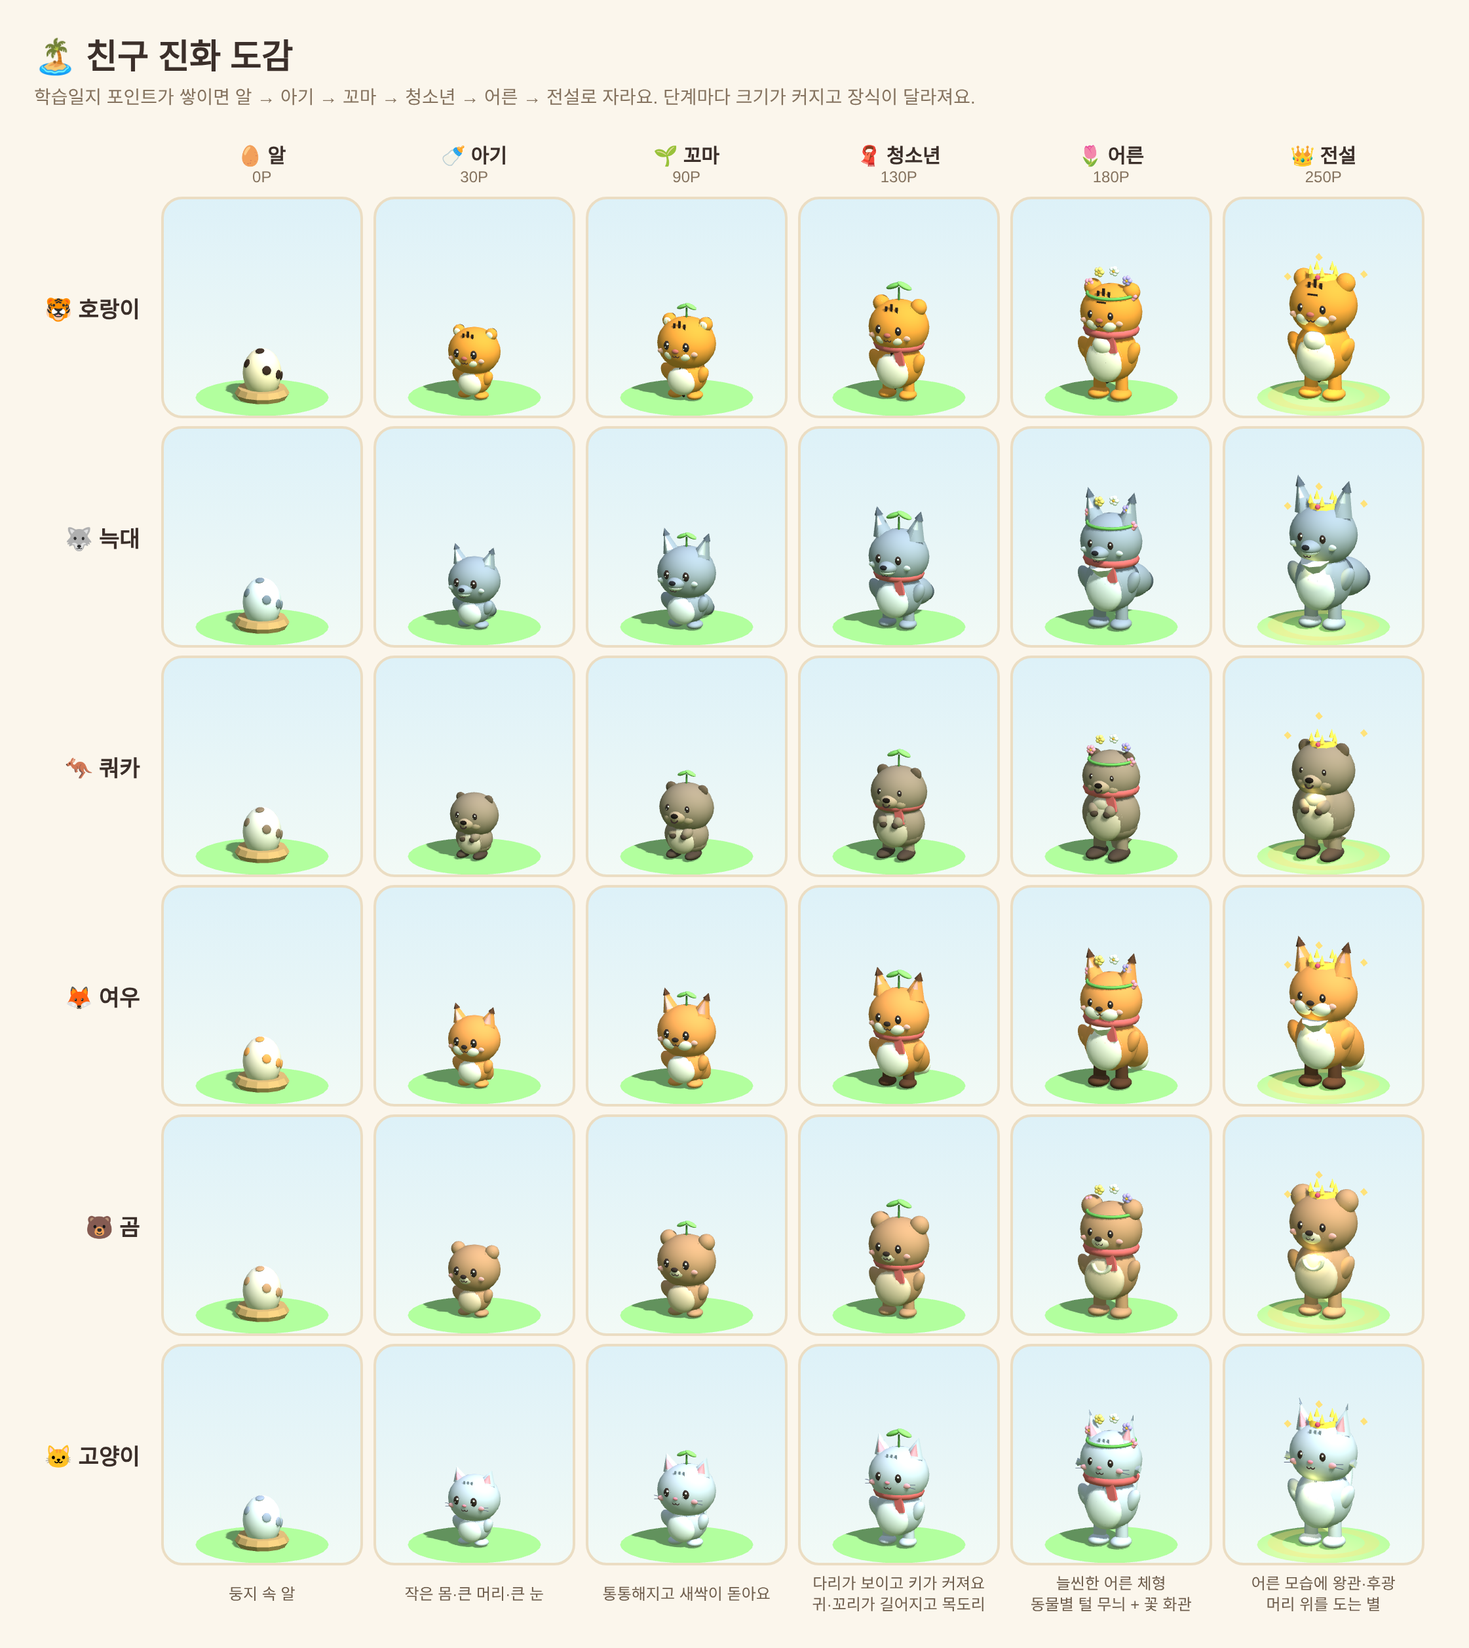
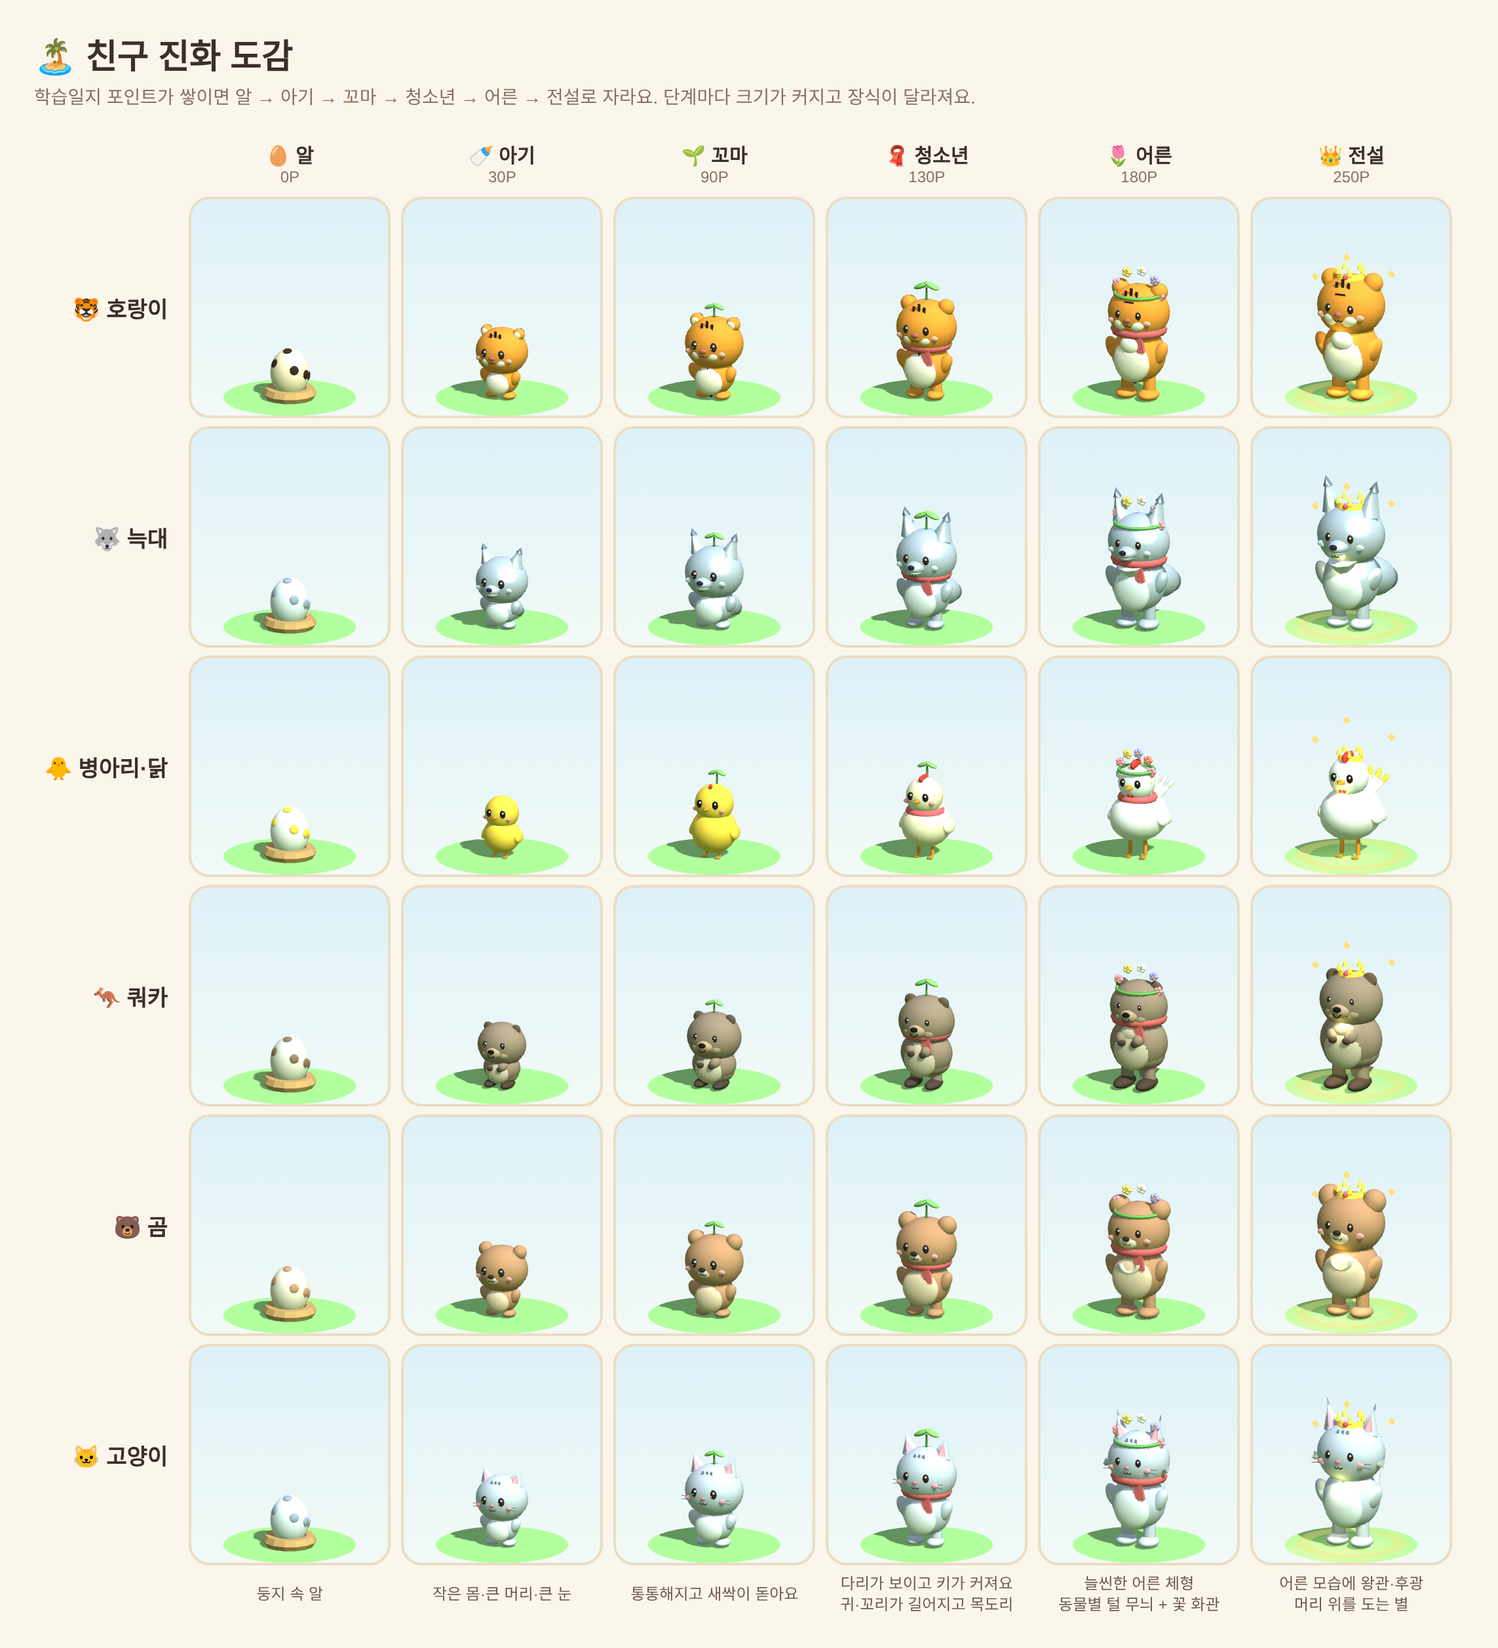
여우 대신 병아리→닭 추가, 늑대를 은빛으로
- 병아리→닭: 노란 병아리 → 볏이 나는 꼬마 → 크림색 중닭(꽁지깃·다리) → 하얀 닭(큰 볏·턱볏·부채꼴 꽁지) → 금빛 꽁지 전설
- 단계에 따라 이름·이모지가 병아리 🐥 / 중닭 / 닭 🐔 로 바뀜
- 늑대: 밝은 은회색 + 빛을 받으면 반짝이는 광택
- api.gs 종류 목록, 체험용 친구(최민재)도 병아리로

Claude-Session: https://claude.ai/code/session_01XAbtJ4oXmSkLcZTaopT91E

diff --git a/index.html b/index.html
@@ -3237,7 +3237,7 @@
       const mates = [
         { num: 2, name: '이준호', pet: { species: 'bear', name: '든든이' }, pts: [25, 25, 30, 30, 30], likes: 3,
           layout: { v: 1, objects: { desk: { x: -3.2, z: 4.6, rot: .5 }, calendar: { x: 1.2, z: 6.0, rot: 0 } }, props: [{ type: 'bench', x: 1.5, z: 3.5, rot: 0 }, { type: 'flowerbed', x: -5.0, z: 5.5, rot: .6 }, { type: 'mushroom', x: 5.0, z: 5.6, rot: 0 }, { type: 'lamp', x: -1.0, z: 2.4, rot: 0 }] } },
-        { num: 3, name: '최민재', pet: { species: 'fox', name: '번개' }, pts: [20, 20], likes: 1, layout: null },
+        { num: 3, name: '최민재', pet: { species: 'chick', name: '번개' }, pts: [20, 20], likes: 1, layout: null },
         { num: 4, name: '정우진', pet: { species: 'cat', name: '치즈' }, pts: [40, 40, 40, 40, 40], likes: 7,
           layout: { v: 1, objects: { arcade: { x: 5.5, z: 4.0, rot: -2.2 }, chest: { x: 6.8, z: -0.6, rot: -1.42 } }, props: [{ type: 'swing', x: 1.8, z: 3.2, rot: 0 }, { type: 'fountain', x: -0.2, z: 1.2, rot: 0 }, { type: 'lamp', x: -4.0, z: 4.8, rot: 0 }, { type: 'lamp', x: 3.4, z: 5.8, rot: 0 }, { type: 'flowerbed', x: -5.4, z: 0.9, rot: 1.57 }, { type: 'sign', x: 1.2, z: 6.6, rot: 0 }] } }
       ];
@@ -3943,7 +3943,8 @@
       // ---------- 캐릭터 ----------
       const SPC = {
         tiger:  { body: 0xf29a3a, belly: 0xfff3e0, accent: 0xf6b3a0, nose: 0xc96a5e, egg: 0xffe7c4, spot: 0x3a2a22, stripe: 0x33251e, muzzle: 0xfff3e0 },
-        wolf:   { body: 0x9aa5b1, belly: 0xeef1f4, accent: 0xd3d9e0, nose: 0x2a2a30, egg: 0xe7ecf2, spot: 0x7a8794, tip: 0x5a6470, muzzle: 0xeef1f4, iris: 0xf2b632 },
+        wolf:   { body: 0xb4bfcb, belly: 0xeef2f6, accent: 0xdde3ea, nose: 0x2a2d36, egg: 0xe9eef4, spot: 0x98a5b4, tip: 0x6f7c8d, muzzle: 0xeef2f6 },
+        chick:  { chick: 0xffd54a, chickBelly: 0xffeb9c, teen: 0xfff1c9, teenBelly: 0xfffaea, body: 0xfbfaf4, belly: 0xffffff, feather: 0xe8e2d2, beak: 0xf59a2c, comb: 0xe2463c, blush: 0xffa8a0, egg: 0xfffdf6, spot: 0xffd54a },
         quokka: { body: 0x9a8670, belly: 0xd8c6ad, accent: 0xd9a090, nose: 0x231c18, egg: 0xefe6d8, spot: 0x8a735c, muzzle: 0xb79d80, paw: 0x4f4035, rim: 0x6a5846 },
         cat:    { body: 0xc9d0dd, belly: 0xf4f6fa, accent: 0xf2a7b5, nose: 0xf08aa0, egg: 0xeef1f7, spot: 0x9aa4b9, stripe: 0x8f99ae },
         bear:   { body: 0xc1916a, belly: 0xe8cdae, accent: 0xf0a8a0, nose: 0x3a2e2a, egg: 0xf6e7d6, spot: 0xc1916a, muzzle: 0xf1dec6 },
@@ -3961,6 +3962,7 @@
         const g = new T.Group();
         const body = new T.Group(); g.add(body);
         const parts = { g: g, body: body };
+        if (species === 'chick' && stage > 0) return buildBird(stage);
         if (stage === 0) {
           const nest = mesh(new T.TorusGeometry(.5, .16, 6, 14), flat(0xc9a066), 0, .12, 0); nest.rotation.x = Math.PI / 2; g.add(nest);
           const egg = ball(.55, S.egg, 0, .62, 0, .85, 1.1, .85); body.add(egg);
@@ -4181,6 +4183,139 @@
           halo.rotation.x = -Math.PI / 2; halo.position.y = .03; g.add(halo); parts.halo = halo;
           // 반짝이는 별 3개가 머리 위를 맴돌아요
           const orbit = new T.Group(); orbit.position.y = cy + ry + .9;
+          for (let i = 0; i < 3; i++) { const a = i / 3 * Math.PI * 2; orbit.add(mesh(new T.OctahedronGeometry(.07, 0), new T.MeshBasicMaterial({ color: 0xffe27a }), Math.cos(a) * .75, 0, Math.sin(a) * .75, false)); }
+          g.add(orbit); parts.orbit = orbit;
+        }
+        if (species === 'wolf') silverize(g, [S.body, S.tip, S.belly, S.muzzle]);
+        g.scale.setScalar(STAGE_SCALE[stage]);
+        return parts;
+      }
+
+
+      // 늑대 털: 빛을 받으면 반짝이는 은빛
+      const silverCache = {};
+      function silverize(g, colors) {
+        g.traverse(function (m) {
+          if (!m.isMesh || !m.material || !m.material.color || m.material.isMeshBasicMaterial) return;
+          const hex = m.material.color.getHex();
+          if (colors.indexOf(hex) < 0) return;
+          m.material = silverCache[hex] || (silverCache[hex] = new T.MeshPhongMaterial({ color: hex, specular: 0x9aa6b8, shininess: 55 }));
+        });
+      }
+
+      // ---------- 🐥 병아리 → 🐔 닭 (새는 몸 구조가 달라서 따로 만들어요) ----------
+      function buildBird(stage) {
+        const S = SPC.chick;
+        const g = new T.Group();
+        const body = new T.Group(); g.add(body);
+        const parts = { g: g, body: body };
+        const legH = [0, 0, 0, .12, .22, .22][stage];
+        const br = [0, .46, .5, .5, .52, .52][stage];
+        const hr = [0, .42, .42, .37, .34, .34][stage];
+        const eyeS = [0, 1.15, 1.08, 1.0, .9, .9][stage];
+        const col = [0, S.chick, S.chick, S.teen, S.body, S.body][stage];
+        const bel = [0, S.chickBelly, S.chickBelly, S.teenBelly, S.belly, S.belly][stage];
+        const adult = stage >= 4;
+        const sy = stage >= 4 ? .88 : (stage === 3 ? .92 : 1), sz = stage >= 4 ? 1.22 : (stage === 3 ? 1.1 : 1);
+        const cy = .1 + legH + br * sy;
+        body.add(ball(br, col, 0, cy, 0, 1, sy, sz));
+        body.add(ball(br * .7, bel, 0, cy - br * .15, br * .45, 1, sy * .9, .6));
+        // 머리 (병아리는 몸에 붙어 있고, 자라면 목이 생겨요)
+        const head = new T.Group();
+        head.position.set(0, cy + br * sy * .72 + hr * .55 + (adult ? .14 : (stage === 3 ? .06 : 0)), stage >= 3 ? .1 : 0);
+        body.add(head); parts.head = head;
+        if (stage >= 3) body.add(ball(hr * .8, col, 0, (cy + head.position.y) / 2 + .04, .06, 1, 1.3, 1));
+        head.add(ball(hr, col, 0, 0, 0));
+        // 눈
+        const eyeM = sm(0x2a2220), hiM = sm(0xffffff), eyes = [];
+        [-1, 1].forEach(function (sd) {
+          const e = new T.Group(); e.position.set(sd * hr * .42, hr * .14, hr * .86);
+          const eb = new T.Group(); eb.scale.setScalar(eyeS); e.add(eb);
+          eb.add(mesh(new T.SphereGeometry(.07, 12, 10), eyeM, 0, 0, 0)); eb.children[0].scale.set(1, 1.2, .6);
+          eb.add(mesh(new T.SphereGeometry(.024, 6, 5), hiM, .022, .035, .04));
+          head.add(e); eyes.push(e);
+        });
+        parts.eyes = eyes;
+        const brows = new T.Group();
+        [-1, 1].forEach(function (sd) { const b = mesh(new T.BoxGeometry(.12, .022, .02), eyeM, sd * hr * .42, hr * .42, hr * .86); b.rotation.z = -sd * .35; brows.add(b); });
+        brows.visible = false; head.add(brows); parts.brows = brows;
+        if (stage <= 3) [-1, 1].forEach(function (sd) { head.add(ball(.08, S.blush, sd * hr * .7, -hr * .18, hr * .7, 1, .6, .4)); });
+        // 부리
+        const bk = adult ? 1.15 : 1;
+        const beakT = mesh(new T.ConeGeometry(.075 * bk, .16 * bk, 6), sm(S.beak), 0, -hr * .05, hr + .05); beakT.rotation.x = Math.PI / 2; beakT.scale.set(1.2, 1, .7); head.add(beakT);
+        // 볏·턱볏 (자랄수록 커져요)
+        const combN = [0, 0, 1, 3, 4, 4][stage], combR = [0, 0, .06, .07, .085, .09][stage];
+        for (let i = 0; i < combN; i++) {
+          const t = combN === 1 ? 0 : i / (combN - 1);
+          head.add(ball(combR * (1 - Math.abs(t - .35) * .4), S.comb, 0, hr * .92 + combR * .5, hr * (.45 - t * .7), .7, 1.1, 1));
+        }
+        if (adult) [-1, 1].forEach(function (sd) { head.add(ball(.05, S.comb, sd * .035, -hr * .45, hr * .78, .8, 1.4, .6)); });
+        // 날개 (팔 역할)
+        const mkWing = function (sd) {
+          const w = ball(.2, col, sd * br * .95, cy, -.02, .35, .8 * sy, 1.1 * sz);
+          w.rotation.z = sd * .25;
+          if (adult) w.add(ball(.11, S.feather, 0, -.12, -.12, 1.1, .7, 1));
+          body.add(w); return w;
+        };
+        parts.armL = mkWing(-1); parts.armR = mkWing(1);
+        // 꽁지깃
+        const tail = new T.Group(); tail.position.set(0, cy + br * .2, -br * sz * .85);
+        if (stage <= 2) { const tf = mesh(new T.ConeGeometry(.08, .2, 6), sm(col), 0, .05, -.04); tf.rotation.x = -.9; tail.add(tf); }
+        else {
+          const n = stage === 3 ? 3 : 5, len = stage === 3 ? .32 : .5;
+          for (let i = 0; i < n; i++) {
+            const a = (i - (n - 1) / 2) * .32;
+            const f = new T.Group(); f.rotation.set(-.55, 0, a);
+            f.add(ball(.09, col, 0, len * .5, 0, .7, len * 5.2, .4));
+            if (stage >= 4) f.add(ball(.07, stage === 5 ? 0xffc93c : S.feather, 0, len * .95, 0, .7, 1.6, .4));
+            tail.add(f);
+          }
+        }
+        body.add(tail); parts.tail = tail;
+        // 다리·발 (주황색)
+        const mkFoot = function (x) {
+          const f = new T.Group(); f.position.set(x, 0, .05);
+          const legLen = legH + .14;
+          f.add(mesh(new T.CylinderGeometry(.035, .04, legLen, 6), sm(S.beak), 0, .06 + legLen / 2, 0));
+          [-.35, 0, .35].forEach(function (a) { const toe = mesh(new T.BoxGeometry(.035, .03, .14), sm(S.beak), Math.sin(a) * .06, .03, .06 + Math.cos(a) * .02); toe.rotation.y = a; f.add(toe); });
+          g.add(f); return f;
+        };
+        parts.footL = mkFoot(-.15); parts.footR = mkFoot(.15);
+        // 단계별 장식 (다른 친구들과 같아요)
+        if (stage === 2 || stage === 3) {
+          const sprout = new T.Group(); sprout.position.set(0, hr * .95, -hr * .35);
+          sprout.add(mesh(new T.CylinderGeometry(.02, .025, .22, 5), sm(0x4e8f3a), 0, .11, 0));
+          const l1 = ball(.09, 0x7cc35f, -.09, .24, 0, 1.4, .45, .8); l1.rotation.z = .4; sprout.add(l1);
+          const l2 = ball(.09, 0x8fd06f, .09, .25, 0, 1.4, .45, .8); l2.rotation.z = -.4; sprout.add(l2);
+          head.add(sprout);
+        }
+        if (stage === 3 || stage === 4) {
+          const ny = head.position.y - hr * .85;
+          const scarf = mesh(new T.TorusGeometry(hr * .85, .08, 8, 18), sm(0xe46a6a), 0, ny, head.position.z * .6); scarf.rotation.x = Math.PI / 2; body.add(scarf);
+          const ts = mesh(new T.BoxGeometry(.14, .3, .06), sm(0xe46a6a), .14, ny - .15, head.position.z * .6 + hr * .8); ts.rotation.z = .2; body.add(ts);
+        }
+        if (stage === 4) {
+          const cols = [0xff9eb5, 0xffe07a, 0xb9a4f5, 0xff8a7a, 0x9fd8f0];
+          const ring = new T.Group(); ring.position.y = hr * .72; ring.rotation.x = -.15;
+          ring.add(mesh(new T.TorusGeometry(hr * .95, .03, 6, 24), sm(0x6cb758), 0, 0, 0)).rotation.x = Math.PI / 2;
+          for (let i = 0; i < 9; i++) {
+            const a = i / 9 * Math.PI * 2, fl = new T.Group(); fl.position.set(Math.cos(a) * hr * .95, .02, Math.sin(a) * hr * .95);
+            for (let k = 0; k < 5; k++) { const pa = k / 5 * Math.PI * 2; fl.add(mesh(new T.SphereGeometry(.045, 6, 5), sm(cols[i % 5]), Math.cos(pa) * .05, .03, Math.sin(pa) * .05)); }
+            fl.add(mesh(new T.SphereGeometry(.033, 6, 5), sm(0xf6b53d), 0, .05, 0));
+            ring.add(fl);
+          }
+          head.add(ring);
+        }
+        if (stage === 5) {
+          const crown = new T.Group(); crown.position.set(0, hr * .98, -hr * .2);
+          const gold = mat(0xffd34d, { emissive: 0xc98a1f, emissiveIntensity: .25 });
+          crown.add(mesh(new T.CylinderGeometry(.2, .22, .12, 10, 1, true), gold, 0, 0, 0));
+          for (let i = 0; i < 5; i++) { const a = i / 5 * Math.PI * 2; crown.add(mesh(new T.ConeGeometry(.05, .15, 4), gold, Math.cos(a) * .2, .12, Math.sin(a) * .2)); }
+          head.add(crown);
+          const glow = new T.PointLight(0xffe27a, .9, 4, 2); glow.position.set(0, 1.2, .5); g.add(glow);
+          const halo = new T.Mesh(new T.RingGeometry(.7, .95, 32), new T.MeshBasicMaterial({ color: 0xffe27a, transparent: true, opacity: .35, side: T.DoubleSide }));
+          halo.rotation.x = -Math.PI / 2; halo.position.y = .03; g.add(halo); parts.halo = halo;
+          const orbit = new T.Group(); orbit.position.y = head.position.y + .75;
           for (let i = 0; i < 3; i++) { const a = i / 3 * Math.PI * 2; orbit.add(mesh(new T.OctahedronGeometry(.07, 0), new T.MeshBasicMaterial({ color: 0xffe27a }), Math.cos(a) * .75, 0, Math.sin(a) * .75, false)); }
           g.add(orbit); parts.orbit = orbit;
         }
@@ -5346,12 +5481,15 @@
     const PET_SPECIES = {
       tiger:  { name: '호랑이', emoji: '🐯', suggest: '태풍' },
       wolf:   { name: '늑대',   emoji: '🐺', suggest: '달빛' },
-      fox:    { name: '여우',   emoji: '🦊', suggest: '단풍' },
+      chick:  { name: '병아리', emoji: '🐥', suggest: '삐약이' },
       bear:   { name: '곰',     emoji: '🐻', suggest: '꼬미' },
       cat:    { name: '고양이', emoji: '🐱', suggest: '나비' },
       quokka: { name: '쿼카',   emoji: '🦘', suggest: '스마일' }
     };
-    const PET_SPECIES_ORDER = ['tiger', 'wolf', 'fox', 'bear', 'cat', 'quokka'];
+    const PET_SPECIES_ORDER = ['tiger', 'wolf', 'chick', 'bear', 'cat', 'quokka'];
+    // 병아리는 자라면 닭이 돼요: 단계에 따라 이름·이모지가 바뀌어요
+    function petEmoji(species, stage) { if (species === 'chick') return stage >= 4 ? '🐔' : '🐥'; return (PET_SPECIES[species] || {}).emoji || '🐾'; }
+    function petKind(species, stage) { if (species === 'chick') return stage >= 4 ? '닭' : (stage === 3 ? '중닭' : '병아리'); return (PET_SPECIES[species] || {}).name || ''; }
     // 🎁 진화 단계마다 열리는 꾸미기 소품 (stage: BADGE_TIERS 번호, max: 놓을 수 있는 개수)
     const PROP_CATALOG = [
       { type: 'flowerbed', name: '꽃밭', emoji: '🌷', stage: 1, max: 3 },
@@ -5741,7 +5879,7 @@
     function studentHomeHtml() {
       const c = gameCtx();
       const sp = PET_SPECIES[c.pet.species];
-      const avatar = c.stage === 0 ? '🥚' : sp.emoji;
+      const avatar = c.stage === 0 ? '🥚' : petEmoji(c.pet.species, c.stage);
       let ratio = 100, xpText = c.points + 'P · 최종 진화 완료 👑';
       if (c.next) { ratio = Math.max(0, Math.min(1, (c.points - c.tier.min) / (c.next.min - c.tier.min))) * 100; xpText = c.points + 'P · ' + (c.stage === 0 ? '부화' : '진화') + '까지 ' + (c.next.min - c.points) + 'P'; }
       let h = '';
@@ -5785,7 +5923,7 @@
       if (STATE.studentPanel) h += gamePanelHtml(STATE.studentPanel, c);
       if (STATE.visit) {
         const v = STATE.visit, t = BADGE_TIERS[v.stage], sp = PET_SPECIES[v.species];
-        h += '<div class="g-visitbar ui"><div><div class="t">🏝 ' + esc(v.ownerName) + '네 섬 구경 중</div><div class="s">' + sp.emoji + ' ' + esc(v.petName) + ' · ' + t.emoji + ' ' + t.label + ' · 👍 ' + (v.likes || 0) + '</div></div>' +
+        h += '<div class="g-visitbar ui"><div><div class="t">🏝 ' + esc(v.ownerName) + '네 섬 구경 중</div><div class="s">' + petEmoji(v.species, v.stage) + ' ' + esc(v.petName) + ' · ' + t.emoji + ' ' + t.label + ' · 👍 ' + (v.likes || 0) + '</div></div>' +
           '<button type="button" class="g-visit-like' + (v.liked ? ' done' : '') + '" id="g-visit-like">' + (v.liked ? '👍 도장 완료' : '👍 도장 찍기') + '</button>' +
           '<button type="button" class="g-visit-home" id="g-visit-home">🏠 내 섬으로</button></div>';
       }
@@ -5833,8 +5971,8 @@
         let nextLine = '최종 진화까지 모두 마쳤어요! 👑';
         if (c.next) nextLine = (c.stage === 0 ? '부화' : '다음 진화(' + c.next.label + ')') + '까지 <b>' + (c.next.min - c.points) + 'P</b> 남았어요';
         return panelFrame('🐾 내 친구',
-          '<div style="text-align:center;margin-bottom:10px"><div style="font-family:\'IBM Plex Sans KR\',sans-serif;font-weight:700;font-size:26px">' + (c.stage === 0 ? '🥚' : sp.emoji) + ' ' + esc(c.pet.name) + '</div>' +
-          '<div style="color:var(--ej-ink-soft);font-size:14px;margin:2px 0 8px">' + sp.name + ' · <b style="color:' + c.tier.color + '">' + c.tier.emoji + ' ' + esc(c.tier.label) + '</b> 단계</div>' +
+          '<div style="text-align:center;margin-bottom:10px"><div style="font-family:\'IBM Plex Sans KR\',sans-serif;font-weight:700;font-size:26px">' + (c.stage === 0 ? '🥚' : petEmoji(c.pet.species, c.stage)) + ' ' + esc(c.pet.name) + '</div>' +
+          '<div style="color:var(--ej-ink-soft);font-size:14px;margin:2px 0 8px">' + petKind(c.pet.species, c.stage) + ' · <b style="color:' + c.tier.color + '">' + c.tier.emoji + ' ' + esc(c.tier.label) + '</b> 단계</div>' +
           (c.stage > 0 ? '<span class="g-mood' + (c.mood.sad ? ' sad' : '') + '">' + c.mood.emoji + ' ' + c.mood.label + '</span>' : '<span class="g-mood">🥚 알 속에서 자라는 중</span>') + '</div>' +
           '<div class="g-stat-row"><div class="g-stat"><b>' + c.points + 'P</b><span>포인트</span></div><div class="g-stat"><b>🔥' + c.streak + '</b><span>연속 작성</span></div><div class="g-stat"><b>' + c.entries.length + '</b><span>쓴 일지</span></div></div>' +
           '<div class="ej-card" style="padding:12px 12px 4px;margin-bottom:12px"><div class="ej-eyebrow" style="margin-bottom:4px">성장 로드맵</div>' + road +
@@ -5882,7 +6020,7 @@
         list.forEach(function (f) {
           const pts = studentTotalPoints(STATE.studentClass, f.studentName), st = stageIndexOf(pts), t = BADGE_TIERS[st];
           const sp = f.pet && PET_SPECIES[f.pet.species] ? PET_SPECIES[f.pet.species] : null;
-          body += '<div class="g-friend"><div class="av">' + (st === 0 || !sp ? '🥚' : sp.emoji) + '</div><div class="info"><div class="nm">' + (f.studentNumber ? f.studentNumber + '번 ' : '') + esc(f.studentName || '') + '</div>' +
+          body += '<div class="g-friend"><div class="av">' + (st === 0 || !sp ? '🥚' : petEmoji(f.pet.species, st)) + '</div><div class="info"><div class="nm">' + (f.studentNumber ? f.studentNumber + '번 ' : '') + esc(f.studentName || '') + '</div>' +
             '<div class="sub">' + (sp ? esc(f.pet.name) + ' · ' : '') + t.emoji + ' ' + t.label + ' · 👍 ' + (f.likes || 0) + '</div></div>' +
             (sp ? '<button type="button" data-visit="' + f.studentNumber + '">놀러가기 ▶</button>' : '<span style="font-size:12px;color:var(--ej-ink-soft)">준비 중</span>') + '</div>';
         });

diff --git a/README.md b/README.md
@@ -1,6 +1,6 @@
 # 🏝 영어 학습 섬 (English Island)
 
-학습일지를 3D 섬 게임으로 만든 웹앱이에요. 학생은 섬에서 동물 친구(호랑이·늑대·여우·곰·고양이·쿼카)를 키우며 일지를 쓰고,
+학습일지를 3D 섬 게임으로 만든 웹앱이에요. 학생은 섬에서 동물 친구(호랑이·늑대·병아리(→닭)·곰·고양이·쿼카)를 키우며 일지를 쓰고,
 우체통·게시판·책장·유리병·오락기·책상·달력·보물상자를 눌러 각 기능을 써요. 같은 기능을 오른쪽 글자 메뉴로도 열 수 있어요.
 
 **조작**: 방향키(또는 WASD)로 친구 움직이기 · Shift 누르면 달리기 · 사물 앞에서 Space/Enter로 열기 · 마우스 드래그로 섬 돌리기 · 휠로 확대
